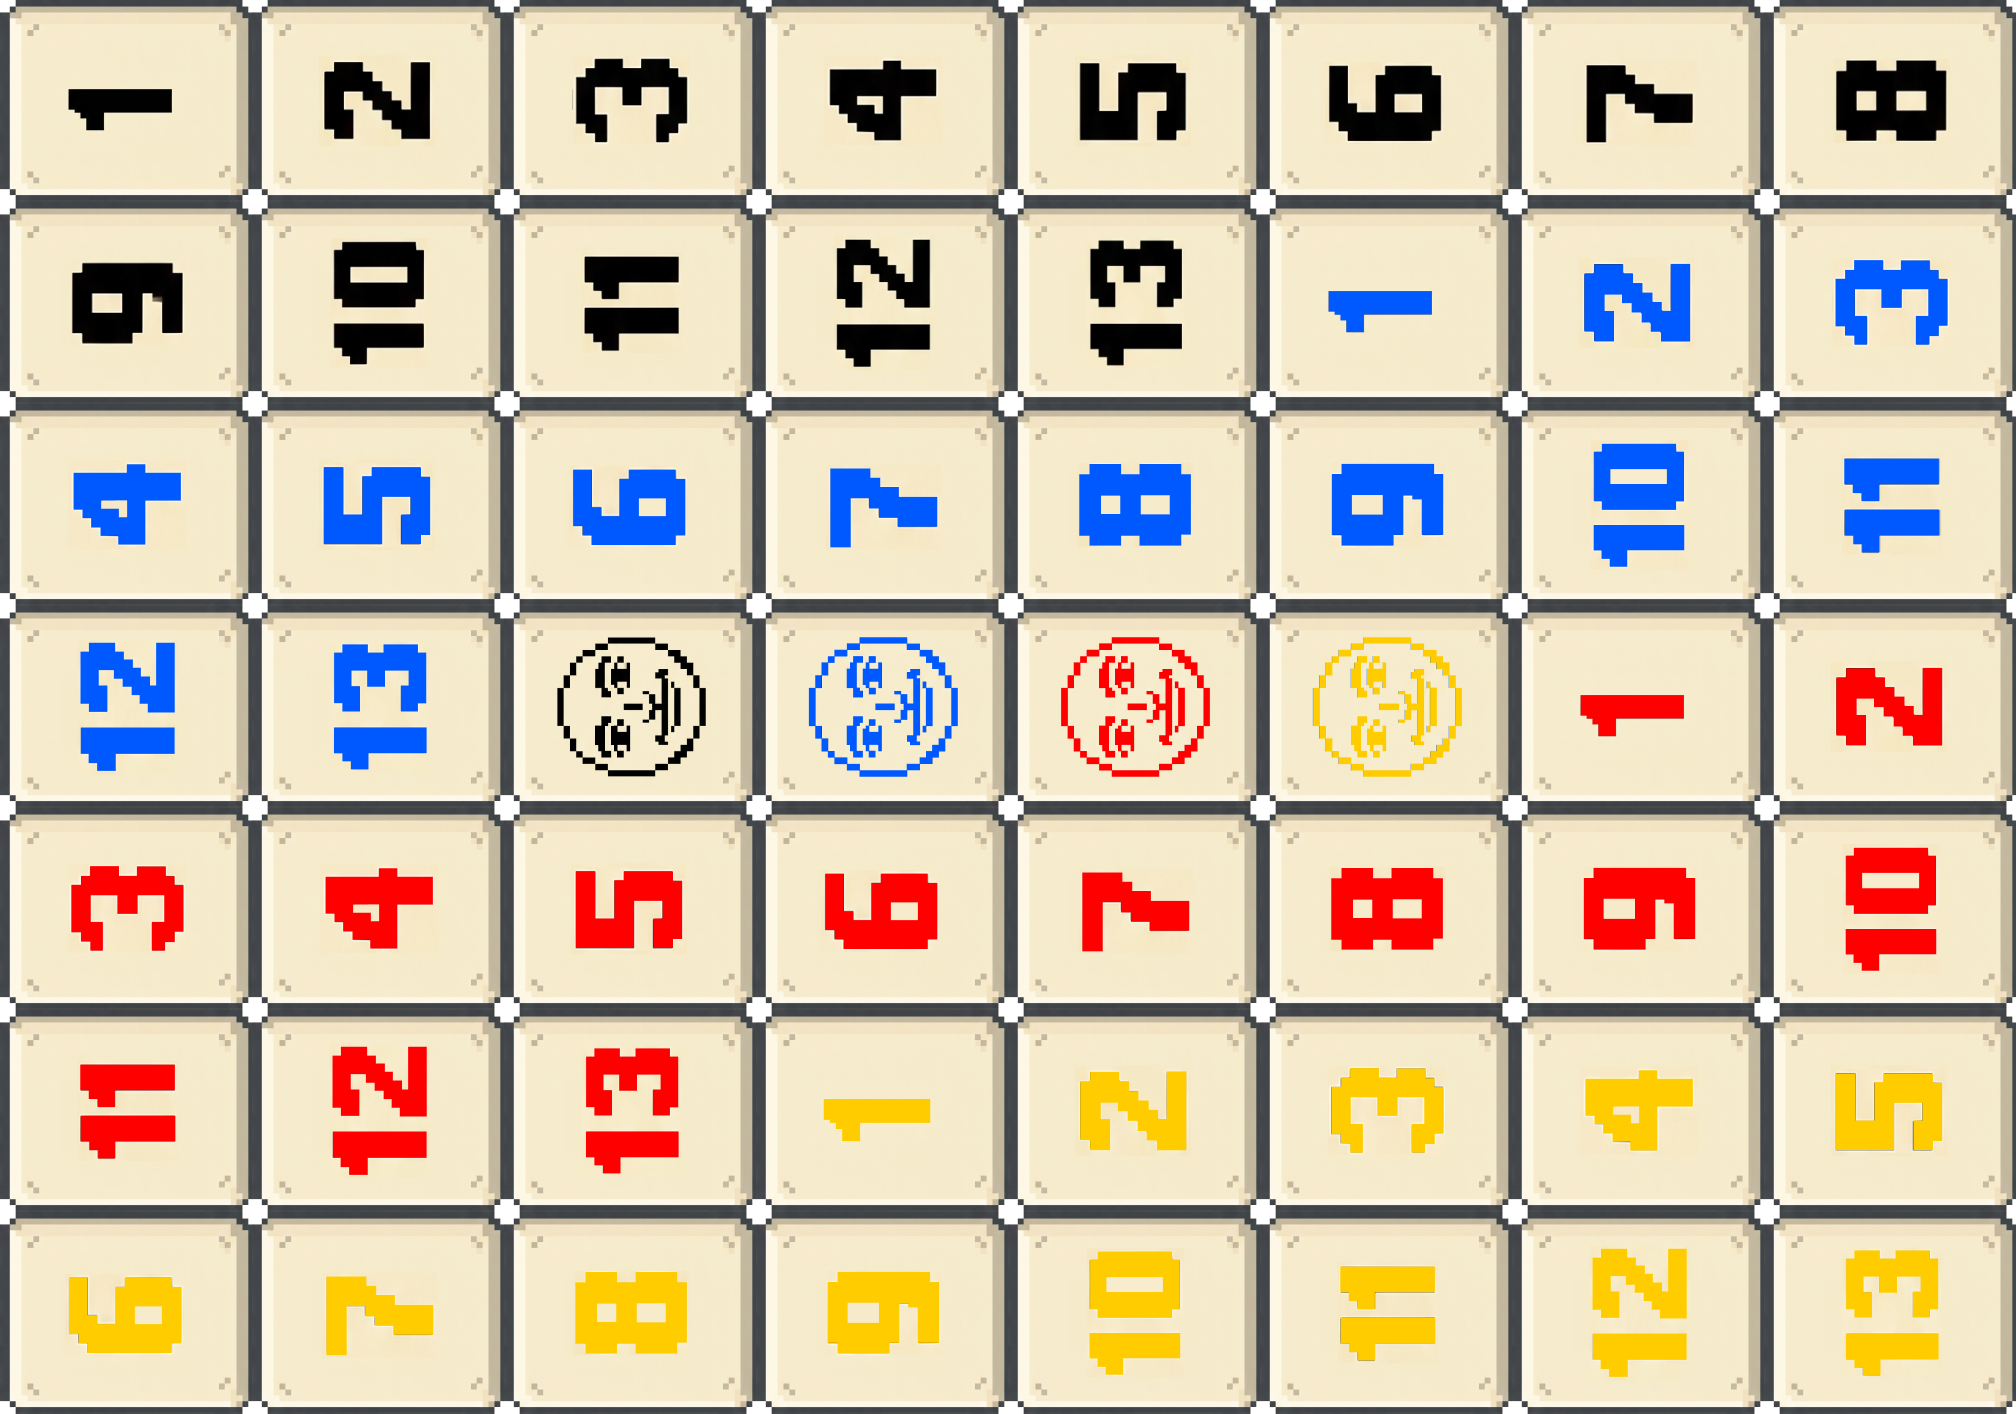
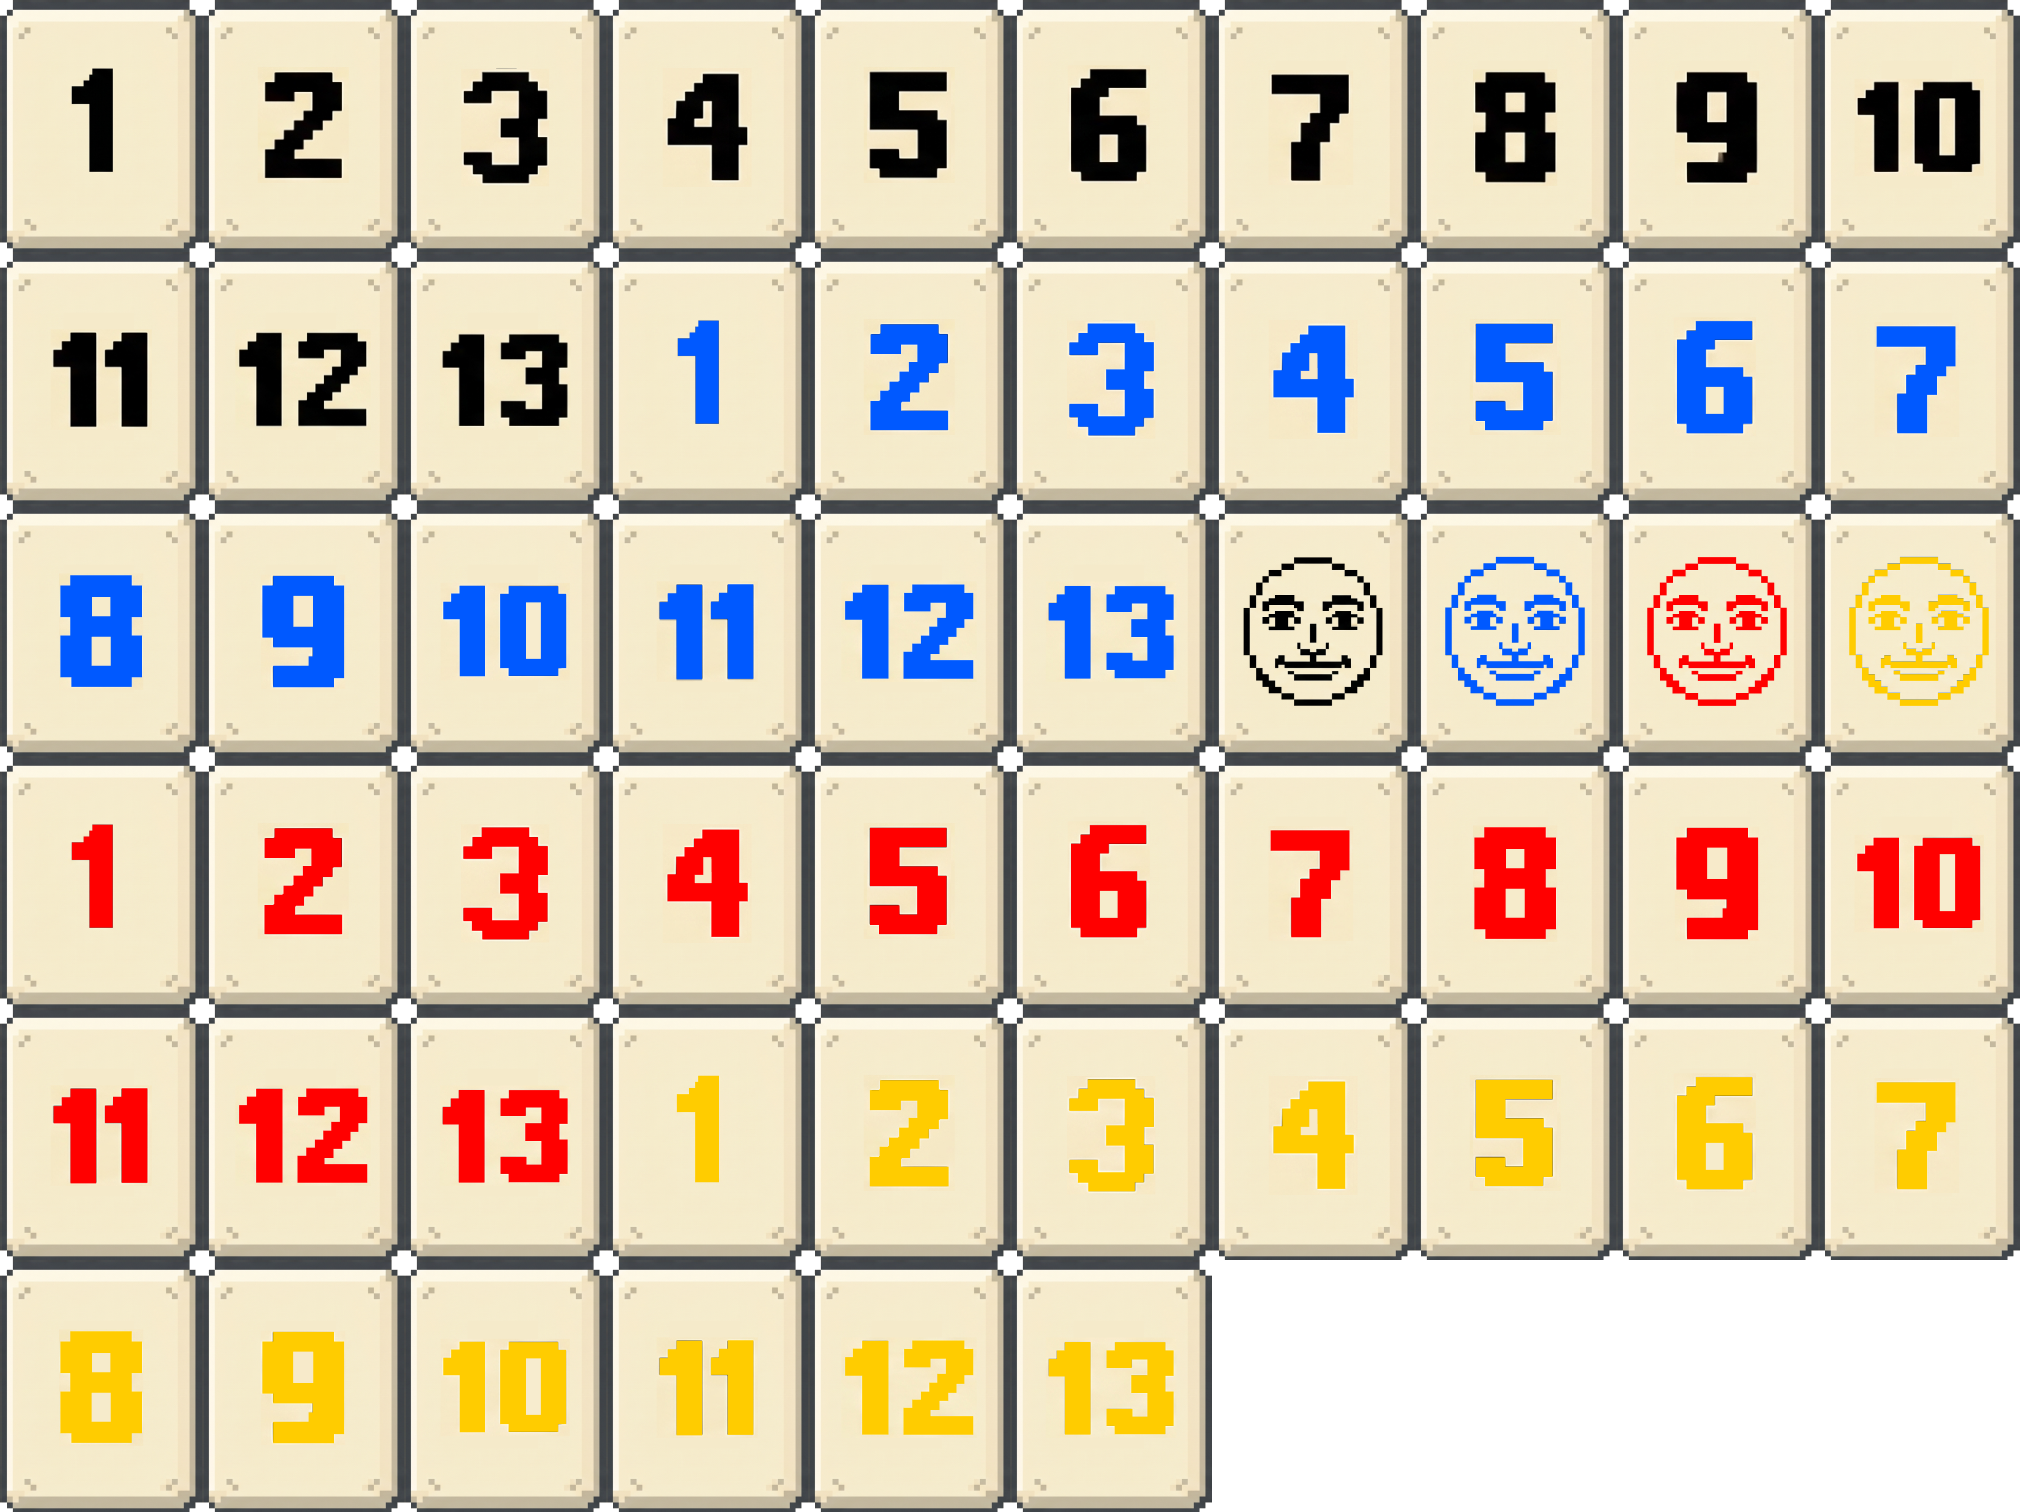
Texture tile working woohoo tapi masih smushed

diff --git a/Game/core/src/main/java/com/rummikub/actors/TileActor.java b/Game/core/src/main/java/com/rummikub/actors/TileActor.java
@@ -130,7 +130,7 @@ public class TileActor extends Actor {
         if (tileData.isJoker) {
             region = ResourcePool.getInstance().getTileAtlas().findRegion("joker_" + colorLower);
         } else {
-            region = ResourcePool.getInstance().getTileAtlas().findRegion(colorLower, tileData.number);
+            region = ResourcePool.getInstance().getTileAtlas().findRegion(colorLower + "_" + tileData.number);
         }
 
         // Draw texture
